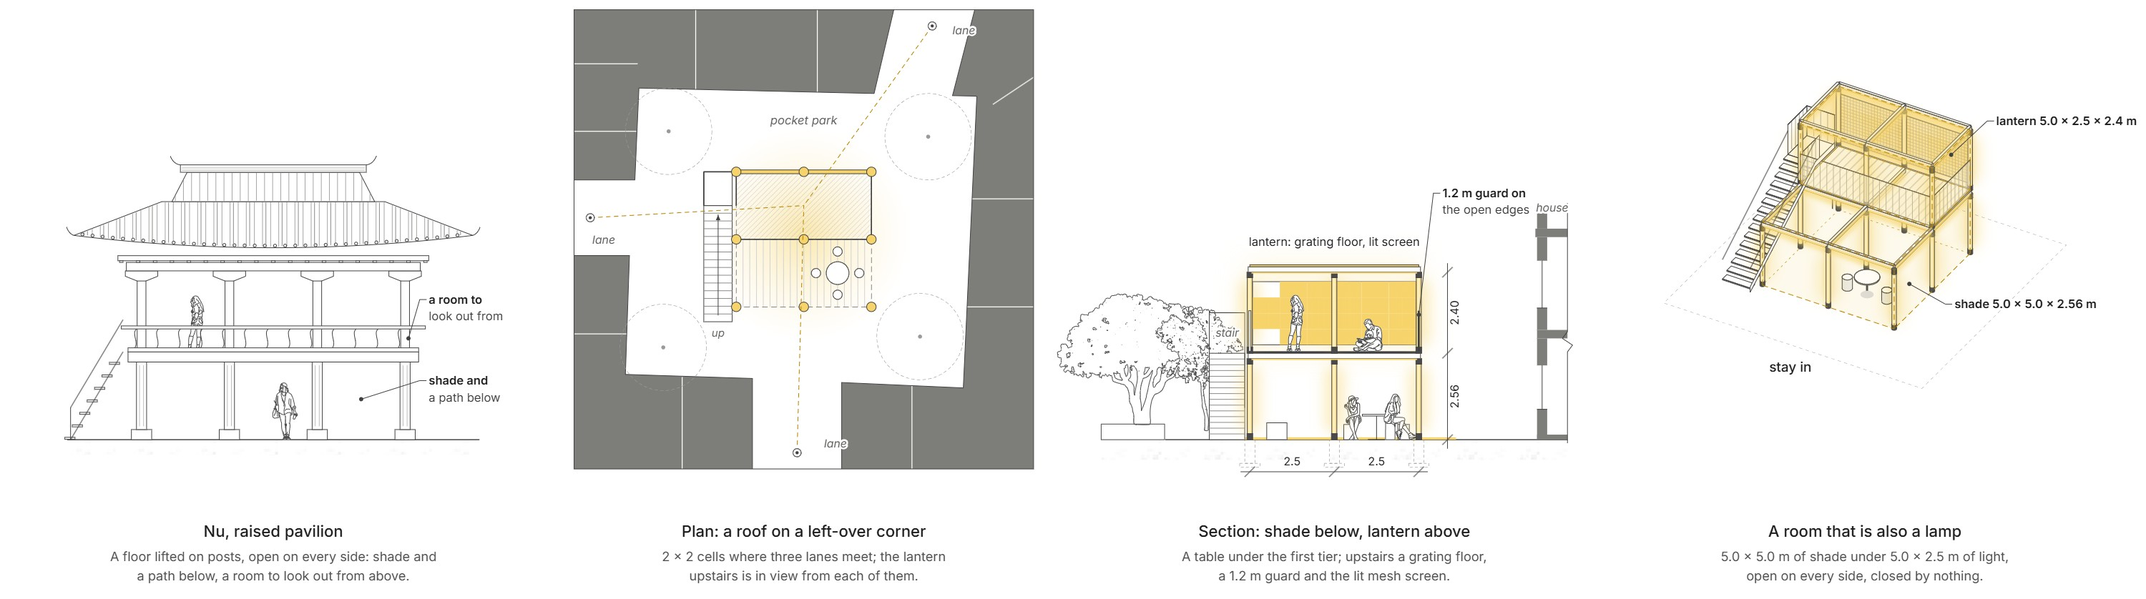
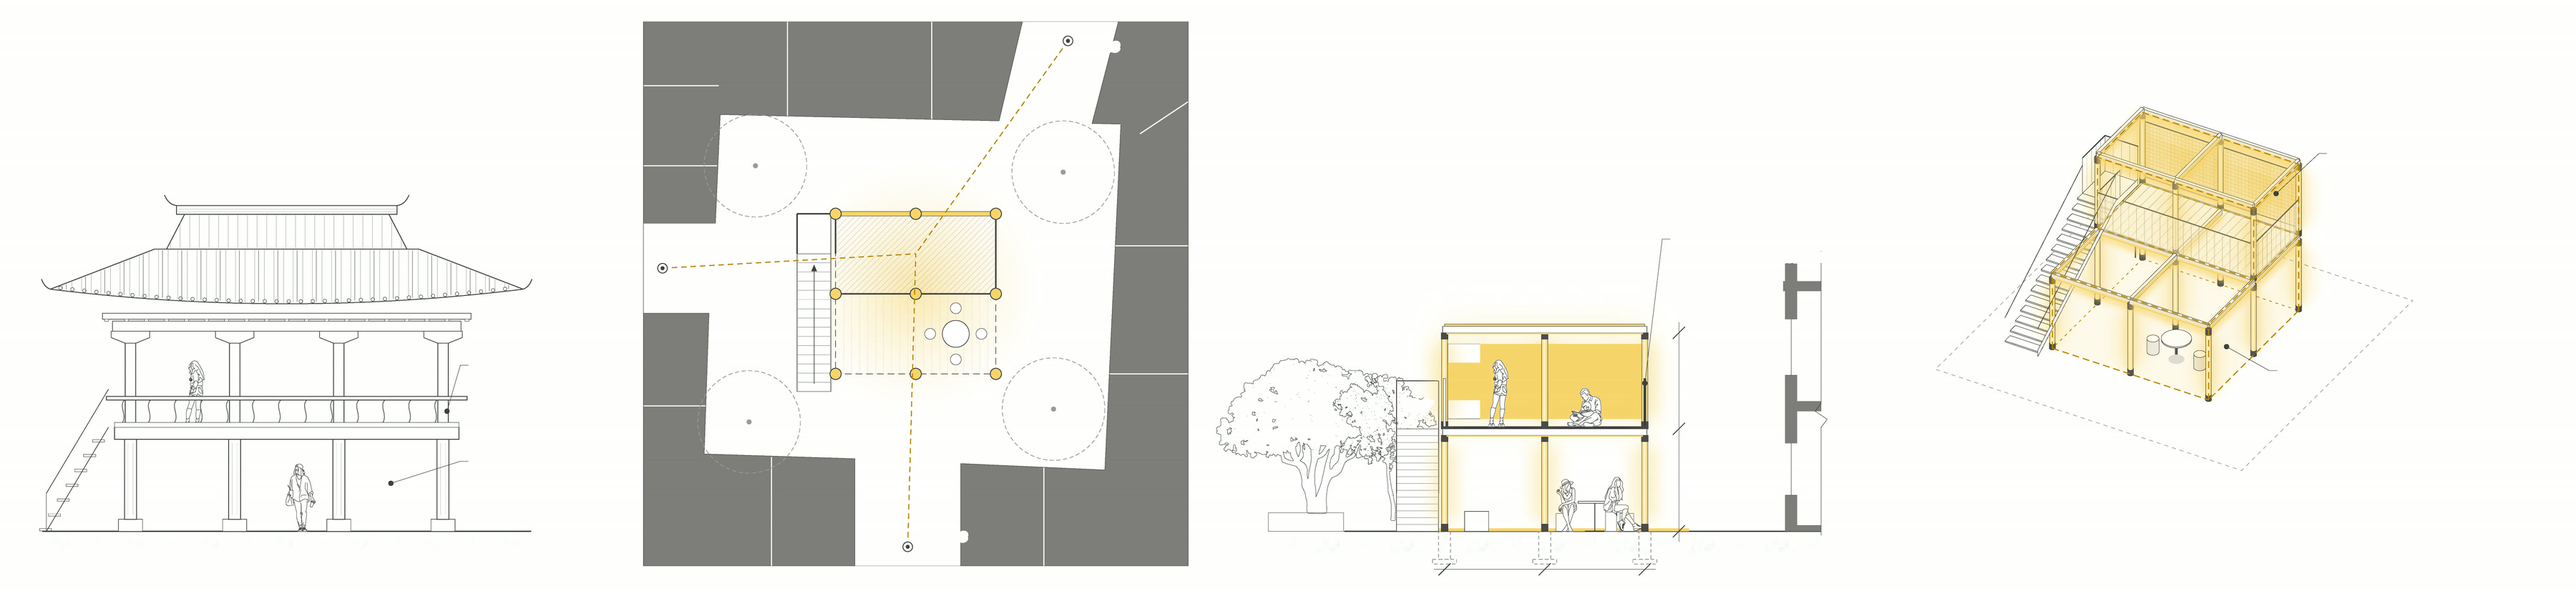
핀 #100 (SMART PIXEL Threshold·Colonnade·Pavilion): 원본 .ai에서 글자를 모두 숨겨 다시 내보내고, 그림 속 이름표·치수는 원래 자리에 사이트 글자(tags, 두 줄 이름표 .nl, 흰 글자 .i)로, 아래 제목·설명은 notes 네 칸으로 새로 씀. 섹션을 넓게(big)

diff --git a/assets/js/data.js b/assets/js/data.js
@@ -1587,25 +1587,13 @@ const SITE = {
         images: [], seq: {"kind":"frames","below":true,"r":0.83,"k":1.05,"fade":true,"steps":[{"src":"assets/img/smart-pixel/site-1-location.jpg","t":"Location","s":"Korea's most concentrated ethnic enclave"},{"src":"assets/img/smart-pixel/site-2-fabric.jpg","t":"Fabric","s":"80 % of 16.6 km of streets are lanes"},{"src":"assets/img/smart-pixel/site-3-walk-home.jpg","t":"Walk home","s":"177 of 400 routes share one street"},{"src":"assets/img/smart-pixel/site-4-depth.jpg","t":"Depth","s":"64 % of street length is over 40 m deep"},{"src":"assets/img/smart-pixel/site-5-already-there.jpg","t":"Already there","s":"cameras, lamps, two safe routes"},{"src":"assets/img/smart-pixel/site-6-where.jpg","t":"Where the frame goes","s":"316 of 400 routes pass it"}]}
       },
       {
-        heading: "Threshold, Colonnade, Pavilion",
+        heading: "Threshold, Colonnade, Pavilion", big: true, // 핀 #100: 그림 위 글자가 읽히게 넓게
         text: "Each old type is read for what it does to the ground, not for how it looks. The gate (Hongsalmun) marks where a lane begins; the market colonnade (Sijeon haengnang) thickens an edge into a room; the raised pavilion (nu) lifts the ground twice. The frame keeps the act, drops the ornament and the wall, and adds what the type never had after dark: light that answers.",
         stack: true,
         images: [
-          {
-            src: "assets/img/smart-pixel/type-threshold.jpg",
-            caption: "01 Threshold — pass through: ×11 at the mouths of deep lanes, 3.5 m between the piers",
-            r: 3.477
-          },
-          {
-            src: "assets/img/smart-pixel/type-colonnade.jpg",
-            caption: "02 Colonnade — walk along: 335 m along the market street, two aisles and a nave open to the sky",
-            r: 3.581
-          },
-          {
-            src: "assets/img/smart-pixel/type-pavilion.jpg",
-            caption: "03 Pavilion — stay in: ×3 on public land at route nodes, 2 × 2 cells over two tiers",
-            r: 3.581
-          },
+          {"src":"assets/img/smart-pixel/type-threshold.jpg","caption":"01 Threshold — pass through: ×11 at the mouths of deep lanes, 3.5 m between the piers","r":4.307,"tags":[[35.17,5.36,"5.0","",""],[33.22,10.69,"deep lane","","m"],[80.8,19.07,"lane walls","","m"],[89.88,24.82,"portal 3.5 × 2.5 × 4.96 m\nlit from the head","","nl w1"],[59,23.94,"lane 5.0","",""],[16.03,41.14,"arrow bars\non two beams","","nl w1"],[64.79,48.18,"head lit, cone ±34°;\nupper tier held at 20 %","","nl w1"],[26.55,56.78,"pavement","","m"],[16.03,64.25,"no wall,\nnothing closes","","nl w1"],[58.9,63.12,"3.3 clear","",""],[34.7,70.48,"3.5 c/c","",""],[63.93,73.59,"4.96","",""],[81.21,74.93,"pass through","","w"],[42.28,77.68,"street","","m"],[25.34,91.7,"bench, lane name,\nSOS button","","nl w1"],[38.41,91.7,"threshold 3.5 × 2.5 m,\n100 % while someone passes","","nl w1"]],"notes":[["01","Hongsalmun, red-arrow gate","Two posts and two beams before a shrine, tomb or school. No wall: it closes nothing, it marks where the inside begins."],["02","Plan: a line across the lane mouth","The frame stands on the pavement, 0.75 m in from the walls; its 3.5 × 2.5 m threshold is the brightest spot of the lane."],["03","Elevation from the pavement","The head frames the lane and keeps 3.3 m clear for deliveries and fire access; a seat waits at the door."],["04","A portal you cross, not enter","The lit volume is the doorway the lane never had: two piers, one head, no door."]]},
+          {"src":"assets/img/smart-pixel/type-colonnade.jpg","caption":"02 Colonnade — walk along: 335 m along the market street, two aisles and a nave open to the sky","r":4.695,"tags":[[77.41,7.66,"shopfront","","m"],[25.72,12.32,"shops","","i"],[82.29,20.42,"open to the sky","","w"],[57.87,20.97,"open to the sky","","w"],[47.82,25.12,"1.25","",""],[47.82,32.42,"1.25","",""],[28.76,32.47,"aisle","","m"],[32.64,43.04,"nave, open to the sky","","w"],[47.82,44.82,"3.0","",""],[32.83,47.08,"fire access, deliveries","","m"],[54.44,52.2,"lintel light ±34°\n31 lx on the walk","","nl w1"],[83.73,51.9,"nave","","w"],[47.82,57.25,"1.25","",""],[71.91,57.55,"shopfront","","m"],[41.2,57.59,"aisle","","m"],[60.53,59.9,"roof panel, louvred","","w"],[61,63.49,"2 % fall outwards","","m"],[47.82,64.56,"1.25","",""],[78.52,68.7,"walk along","","w"],[89.24,71.93,"aisle under the roof\n2.5 m, lit from above","","nl w1"],[25.72,78.33,"shops","","i"],[6.42,91.87,"kan","c",""],[9.56,91.87,"kan","c",""],[12.69,91.87,"kan","c",""],[15.83,91.87,"kan","c",""],[50.97,92.97,"shop","",""],[54.67,92.97,"2.5 aisle","",""],[58.92,92.97,"3.0 nave","",""],[63.22,92.97,"2.5 aisle","",""],[67.77,92.97,"shop","",""]],"notes":[["01","Sijeon haengnang, Jongno","From 1412 the state built the market a long row of identical bays (kan); the merchants filled them."],["02","Plan: an edge thickened into aisles","Columns every 2.5 m in two rows; roofs over the stalls and the walkway, 3.0 m left open down the middle."],["03","Cross-section: aisle, nave, aisle","The roofs cover the stalls and the walk; the nave stays open to the sky for fire access and deliveries."],["04","A hall made of a street","Two lit aisles to walk along, one nave to look up from. Ten metres drawn; 335 m built."]]},
+          {"src":"assets/img/smart-pixel/type-pavilion.jpg","caption":"03 Pavilion — stay in: ×3 on public land at route nodes, 2 × 2 cells over two tiers","r":4.317,"tags":[[42.4,7.86,"lane","","m"],[34,25.83,"pocket park","","m"],[90.44,25.98,"lantern 5.0 × 2.5 × 2.4 m","","w"],[64.95,41.98,"1.2 m guard on\nthe open edges","","nl w1"],[69.25,43.2,"house","","m"],[25.82,49.49,"lane","","m"],[56.03,49.9,"lantern: grating floor, lit screen","",""],[18.28,63.13,"a room to\nlook out from","","nl w1"],[88.51,62.4,"shade 5.0 × 5.0 × 2.56 m","","w"],[66,66.85,"2.40","",""],[54.5,68.05,"stair","","m"],[31.31,68.05,"up","","m"],[79.98,74.92,"stay in","","w"],[66,77.55,"2.56","",""],[18.28,79.25,"shade and\na path below","","nl w1"],[36.49,90.05,"lane","","m"],[58.8,93.57,"2.5","c",""],[61.12,93.57,"2.5","c",""]],"notes":[["01","Nu, raised pavilion","A floor lifted on posts, open on every side: shade and a path below, a room to look out from above."],["02","Plan: a roof on a left-over corner","2 × 2 cells where three lanes meet; the lantern upstairs is in view from each of them."],["03","Section: shade below, lantern above","A table under the first tier; upstairs a grating floor, a 1.2 m guard and the lit mesh screen."],["04","A room that is also a lamp","5.0 × 5.0 m of shade under 5.0 × 2.5 m of light, open on every side, closed by nothing."]]},
           {
             src: "assets/img/smart-pixel/type-abstraction.jpg",
             caption: "Keep the act, drop the form — mark, thicken, lift",

diff --git a/assets/css/site.css b/assets/css/site.css
@@ -2316,3 +2316,9 @@ html.cg-open { overflow: hidden; }
   .pj-sec .sim > .sim-sec:nth-of-type(1) { width: min(calc(100% - (100% - var(--pw)) / 2), calc(var(--pw) / 0.934)) !important; margin: 10px 0 0 calc((100% - var(--pw)) / 2); justify-self: start; }
   .pj-sec .sim > .sim-ui, .pj-sec .sim > .sim-d { width: var(--pw); justify-self: center; }
 }
+
+/* 핀 #100: 그림 위 글자 중 원본에서 굵던 것 (크기는 --t-xs 그대로) */
+.media .ftag.w { font-weight: 600; }
+.media .ftag.nl { white-space: pre; line-height: 1.25; }
+.media .ftag.w1::first-line { font-weight: 600; }
+.media .ftag.i { color: #fff; }
